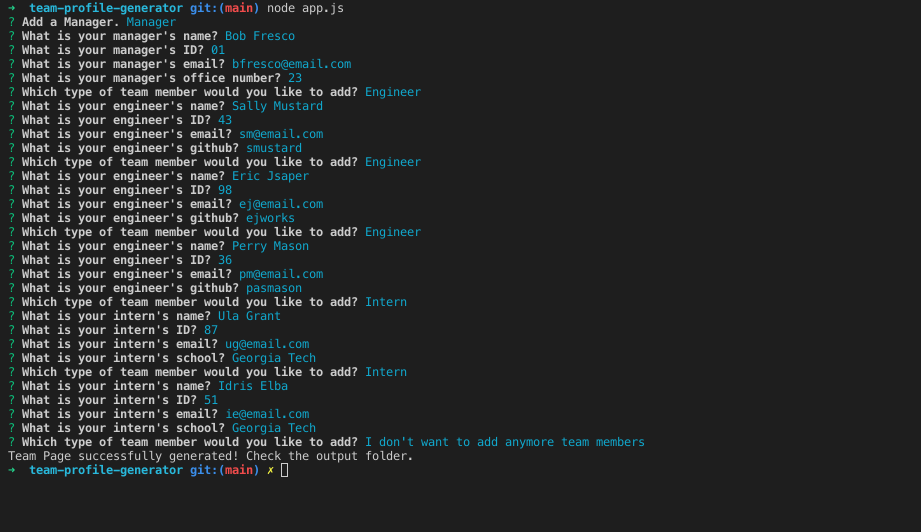
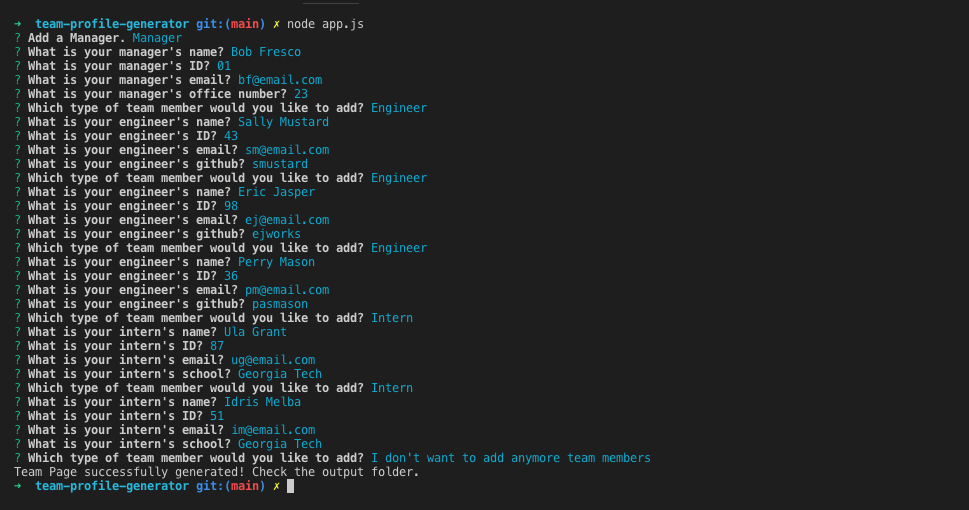
created new team page, updated readme

Changed region(s): [[0.0, 0.0, 0.6992, 0.9706]]

diff --git a/output/team.html b/output/team.html
@@ -42,8 +42,8 @@
     </div>
 
     <div class="container">
-      <div class="row">
-        <div class="team-area col-12 d-flex justify-content-center">
+        <div class="row">
+        <div class="team-area col d-flex justify-content-center">
           <div class="card employee-card mr-3">
     <div class="card-header">
         <h2 class="card-title">Bob Fresco</h2>
@@ -52,7 +52,7 @@
     <div class="card-body">
         <ul class="list-group">
             <li class="list-group-item">ID: 01</li>
-            <li class="list-group-item">Email: <a href="mailto:bfresco@email.com">bfresco@email.com</a></li>
+            <li class="list-group-item">Email: <a href="mailto:bf@email.com">bf@email.com</a></li>
             <li class="list-group-item">Office number: 23</li>
         </ul>
     </div>
@@ -72,7 +72,7 @@
 </div>
 <div class="card employee-card mr-3">
     <div class="card-header">
-        <h2 class="card-title">Eric Jsaper</h2>
+        <h2 class="card-title">Eric Jasper</h2>
         <h3 class="card-title"><i class="fas fa-glasses mr-2"></i>Engineer</h3>
     </div>
     <div class="card-body">
@@ -111,13 +111,13 @@
 </div>
 <div class="card employee-card mr-3">
     <div class="card-header">
-        <h2 class="card-title">Idris Elba</h2>
+        <h2 class="card-title">Idris Melba</h2>
         <h3 class="card-title"><i class="fas fa-user-graduate mr-2"></i>Intern</h3>
     </div>
     <div class="card-body">
         <ul class="list-group">
             <li class="list-group-item">ID: 51</li>
-            <li class="list-group-item">Email: <a href="mailto:ie@email.com">ie@email.com</a></li>
+            <li class="list-group-item">Email: <a href="mailto:im@email.com">im@email.com</a></li>
             <li class="list-group-item">School: Georgia Tech</li>
         </ul>
     </div>

diff --git a/templates/main.html b/templates/main.html
@@ -42,8 +42,8 @@
     </div>
 
     <div class="container">
-      <div class="row">
-        <div class="team-area col-12 d-flex justify-content-center">
+        <div class="row">
+        <div class="team-area col d-flex justify-content-center">
           {{ team }}
         </div>
       </div>

diff --git a/README.md b/README.md
@@ -23,7 +23,10 @@ A command-line application that generates a high quality team profile html page.
 
 ## Usage 
 This code should be used for the purpose of creating/editing code for a Team Page generator. This code has not been deployed to a live site. It must be run locally.  
-![team profile page generator](./screenshot.png)
+### Generator Screenshot  
+![team profile page generator](./screenshot.png)  
+### Team Page Screenshot  
+![team profile page generator](./screenshot2.png)
 
 
 ## Credits
